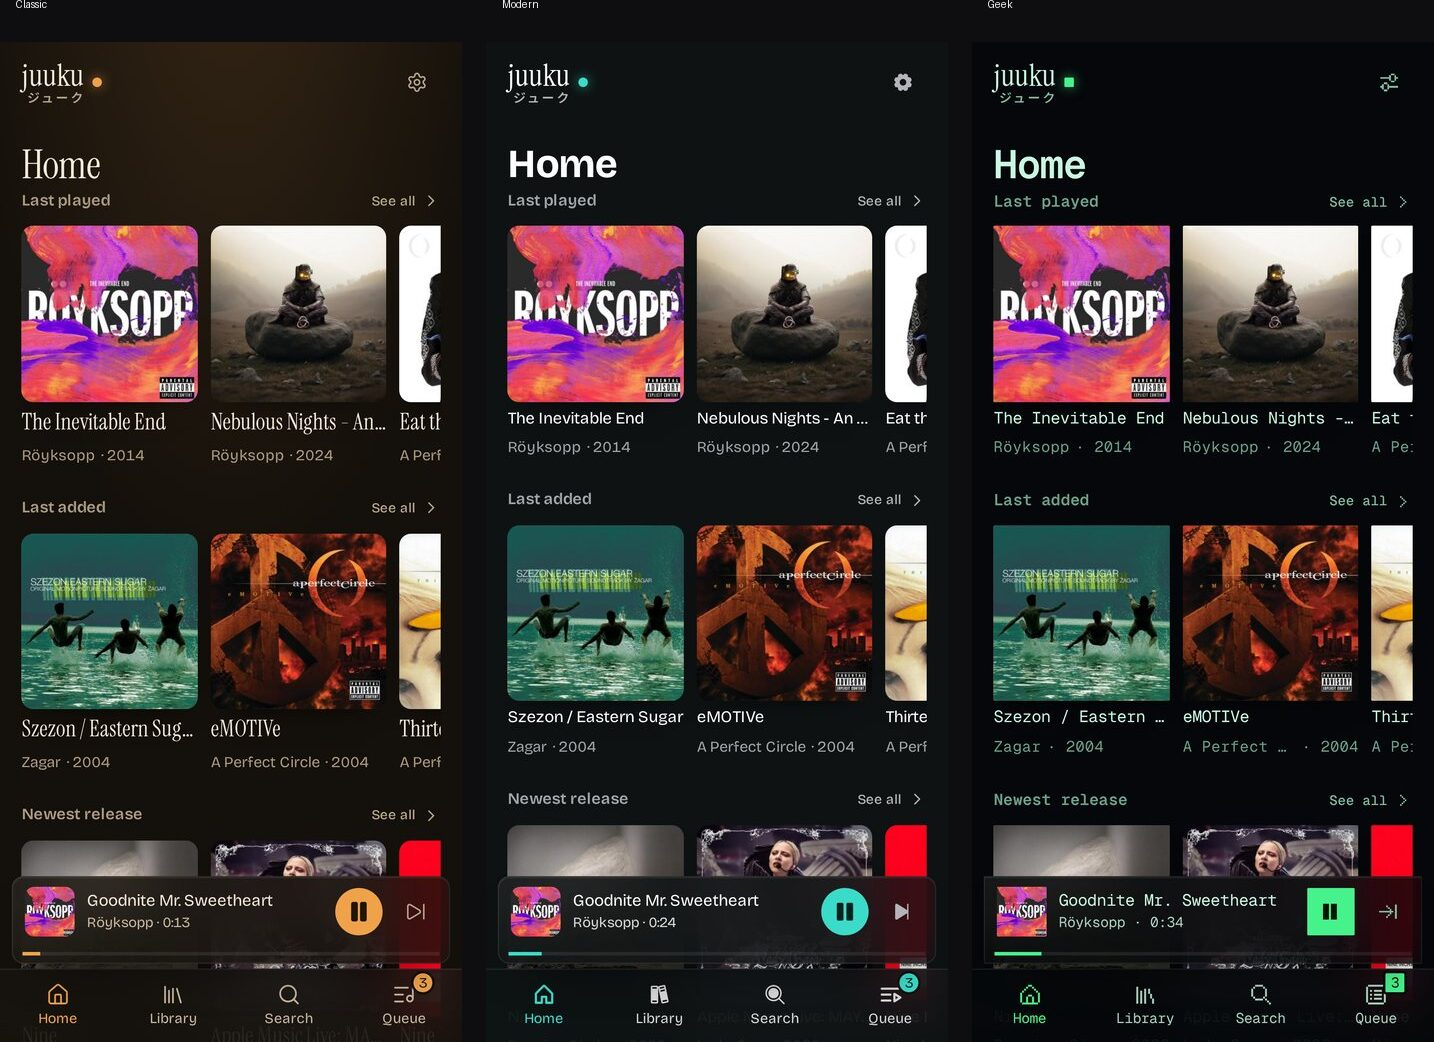
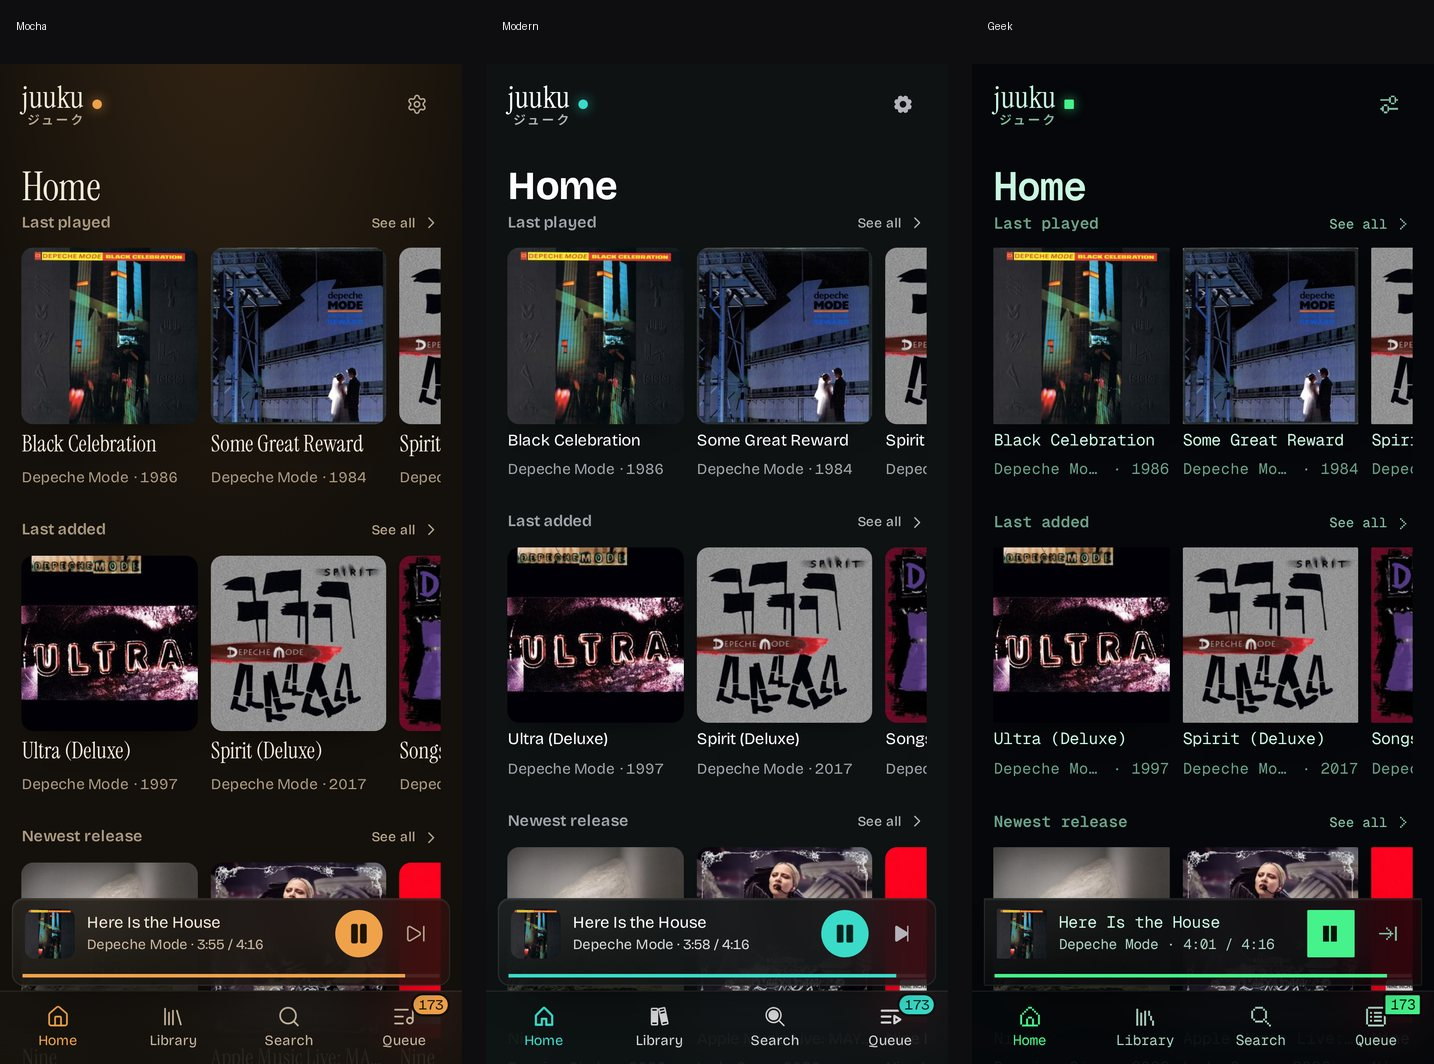
0.8.0: the queue keeps the playing track in view
The already-played history folds away, three tracks stay above the current one and a
muted row unfolds the rest, so the window slides forward as the queue advances and
nothing has to chase the active row. The queue is transient now: it folds again on
every visit and the router keeps no offset for it, because a remembered offset was
measured against the unfolded list and landed nowhere near its row.

The mini player and the desktop footer read played over length: 3:06 / 4:16.

The theme strip in the docs is Mocha, Modern and Geek, one screen each.

diff --git a/src/views/QueueView.tsx b/src/views/QueueView.tsx
@@ -1,12 +1,27 @@
+import { useState } from 'react';
 import { formatTime, formatTotal } from '../format';
 import { RepeatIcon, RepeatOneIcon, ShuffleIcon, TrashIcon } from '../icons';
 import { navigate } from '../router';
 import { QueueRow } from '../rows';
 import type { Jukebox } from '../useJukebox';
 
+// how many already-played tracks stay above the current one before they fold away
+const PAST_KEPT = 3;
+
+
+
 export function QueueView({ jbox }: { jbox: Jukebox }) {
   const { entries, status } = jbox;
   const total = entries.reduce((sum, song) => sum + (song.duration || 0), 0);
+  // the queue is a live list, not a page you come back to: it folds itself again on
+  // every visit, and the router forgets its offset so nothing tries to restore one
+  const [showPast, setShowPast] = useState(false);
+
+  // the queue plays on its own, so the list has to keep the current track visible
+  // without anyone scrolling: it folds the past away and slides forward by itself
+  const index = status?.currentIndex ?? -1;
+  const from = showPast ? 0 : Math.max(0, index - PAST_KEPT);
+  const hidden = from;
 
   return (
     <div className="view">
@@ -46,18 +61,35 @@ export function QueueView({ jbox }: { jbox: Jukebox }) {
         </p>
       ) : (
         <ul className="rows">
-          {entries.map((song, index) => (
+          {hidden > 0 && (
+            <li className="queue-earlier">
+              <button className="inline-link" onClick={() => setShowPast(true)}>
+                {hidden} earlier {hidden === 1 ? 'track' : 'tracks'}
+              </button>
+            </li>
+          )}
+          {hidden === 0 && showPast && index > PAST_KEPT && (
+            <li className="queue-earlier">
+              <button className="inline-link" onClick={() => setShowPast(false)}>
+                Hide the {index - PAST_KEPT} earlier
+              </button>
+            </li>
+          )}
+          {entries.slice(from).map((song, offset) => {
+            const at = from + offset;
+            return (
             <QueueRow
-              key={`${song.id}-${index}`}
+              key={`${song.id}-${at}`}
               song={song}
-              index={index}
-              active={index === status?.currentIndex}
-              played={status ? status.currentIndex >= 0 && index < status.currentIndex : false}
+              index={at}
+              active={at === index}
+              played={index >= 0 && at < index}
               playing={!!status?.playing}
-              onSkip={() => jbox.playAt(index)}
-              onRemove={() => jbox.removeAt(index)}
+              onSkip={() => jbox.playAt(at)}
+              onRemove={() => jbox.removeAt(at)}
             />
-          ))}
+            );
+          })}
         </ul>
       )}
 

diff --git a/src/router.ts b/src/router.ts
@@ -83,12 +83,19 @@ window.addEventListener(
 // per-view memory below and landed between the two
 if ('scrollRestoration' in history) history.scrollRestoration = 'manual';
 const scrollKey = (hash: string) => hash.replace(/^#/, '') || '/';
+/**
+ * Views that do not keep an offset. The player owns the screen; the queue is a live
+ * list that folds its history away, so a remembered offset would be measured against
+ * a longer list than the one that comes back — it starts at the top instead.
+ */
+const transient = (route: Route) => route.name === 'player' || route.name === 'queue';
 let here: Route = parse(window.location.hash);
 let stack: Route[] = [here];
 let cameFrom: Route = here;
 
 window.addEventListener('hashchange', (event) => {
-  scrollMemory.set(scrollKey(new URL(event.oldURL).hash), trackedY);
+  const left = parse(new URL(event.oldURL).hash);
+  if (!transient(left)) scrollMemory.set(scrollKey(new URL(event.oldURL).hash), trackedY);
   trackedHash = window.location.hash;
   trackedY = window.scrollY;
   depth += 1;
@@ -136,7 +143,7 @@ export function useRoute() {
       setRoute(next);
       // the player owns the screen, so it never carries an offset; every other view
       // returns to where it was left, or starts at the top on a first visit
-      const remembered = next.name === 'player' ? undefined : scrollMemory.get(scrollKey(window.location.hash));
+      const remembered = transient(next) ? undefined : scrollMemory.get(scrollKey(window.location.hash));
       // the view is mounted hidden, so its height arrives a frame or two after the
       // route does: keep asking for the old offset until the page is tall enough
       let tries = 0;

diff --git a/src/styles.css b/src/styles.css
@@ -335,6 +335,24 @@ h1.display {
   font-variant-numeric: tabular-nums;
 }
 
+/* the folded-away history: a row in the list, not a floating control */
+.queue-earlier {
+  display: flex;
+  align-items: center;
+  min-height: 40px;
+  padding: 0 0.2rem;
+  border-bottom: 1px solid color-mix(in srgb, var(--line) 55%, transparent);
+}
+
+.queue-earlier .inline-link {
+  font-size: 0.78rem;
+  color: var(--dim);
+}
+
+.queue-earlier .inline-link:hover {
+  color: var(--text);
+}
+
 .fineprint.tail {
   padding: 1.6rem 0.2rem 0.4rem;
   line-height: 1.6;

diff --git a/src/MiniPlayer.tsx b/src/MiniPlayer.tsx
@@ -68,7 +68,10 @@ export function NowBar({ jbox, onOpen, expanded }: { jbox: Jukebox; onOpen?: () 
             <span className="nowbar-title">{current.title}</span>
             <span className="nowbar-sub">
               {current.artist}
-              <span className="nowbar-time"> · {formatTime(position)}</span>
+              <span className="nowbar-time">
+                {' '}
+                · {formatTime(position)} / {formatTime(duration)}
+              </span>
             </span>
           </span>
         </button>

diff --git a/docs/CHANGELOG.md b/docs/CHANGELOG.md
@@ -7,6 +7,12 @@ Newest first. Tags: **Feature**, **Fix**, **Break**.
 `package.json` and the `v*` tag move together: a fix bumps the patch, a feature the
 minor, and the tag is what CI builds the published image from.
 
+## v0.8.0 — 2026-10-19
+
+- **Queue** — it keeps the playing track on screen instead of making you scroll to it: the already-played history folds away, three tracks stay above the current one, and a muted "65 earlier tracks" row unfolds the rest. The window slides forward as the queue advances, so nothing has to chase it. The queue is treated as transient — it folds again on every visit and the router keeps no offset for it, so coming back starts at the top rather than dropping a remembered offset onto a much shorter list.
+- **Mini player and footer** — the time now reads played over length (`3:06 / 4:16`) instead of the elapsed time alone.
+- **Docs** — the theme strip shows the same screen in Mocha, Modern and Geek.
+
 ## v0.7.7 — 2026-10-19
 
 - **Themes** — the Classic theme is now **Mocha**: same amber serif look, a better name. The id moved with it (`data-theme="mocha"`, `localStorage['juuku.theme']`), so a browser that had `classic` stored lands on Mocha, which is the default anyway.
